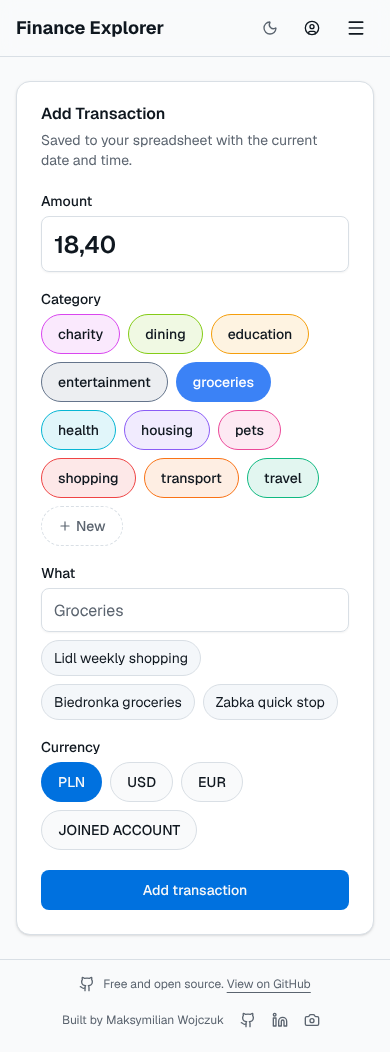
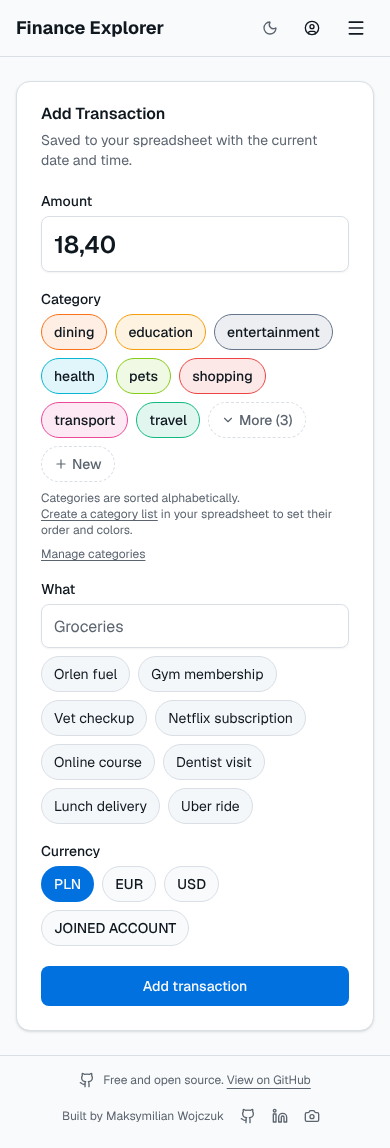
Update README screenshots and highlight offline adding
- New screenshots from the current app (demo data): dashboard,
  transactions, categories, category detail and the Add page.
- New "Add Transactions Anywhere, Even Offline" section with two phone
  screenshots: the saved-offline screen and unsynced rows in the list.
  It covers the fast Add page launch, saving without waiting for the
  network, background sync without duplicates, and the pending/failed
  status in the UI.
- docs/deployment.md: how unsynced transactions show in the UI.

Claude-Session: https://claude.ai/code/session_0157vtdCPyRZKogqmkTy4caS

diff --git a/README.md b/README.md
@@ -16,11 +16,27 @@ A powerful, privacy-focused personal finance dashboard that turns your Google Sh
 
 - **Your data stays in your Google Sheet**: There is no database. Transactions are read from and written to the Google Sheets API directly in your browser; the app's server never receives them.
 - **Minimal Google access**: Only the `drive.file` scope (plus your email for sign-in), so the app can open just the spreadsheet you pick, not the rest of your Drive. It writes only when you add, edit, return or delete a transaction, and only the input columns (Timestamp to Currency, TransactionID, Notes and ReturnOf) of the `expenses` tab, or when you manage currencies in the `currencyDates` tab.
-- **Local cache only**: Transactions are cached in your browser (IndexedDB) for fast loads and cleared on sign-out.
+- **Local cache only**: Transactions are cached in your browser (IndexedDB) for fast loads and cleared on sign-out. Transactions added offline wait in a separate on-device queue until they reach your sheet.
 - **No vendor lock-in**: Keep using Sheets however you like; the app is just a view on top. Self-host your own instance in one click.
 - **Server is auth-only**: The backend just exchanges and refreshes Google OAuth tokens (refresh token kept in an HTTP-only cookie).
 
 > Note: the app includes [Vercel Web Analytics](https://vercel.com/docs/analytics) for page-view stats. It does not receive your spreadsheet data.
+
+## Add Transactions Anywhere, Even Offline
+
+Install the app on your phone's Home Screen and adding an expense takes seconds, whatever the connection:
+
+- **Opens straight on the Add page**, loads without a network after one online visit, and shows your cached data at once while it refreshes in the background. Built for slow connections: the form needs a single Sheets request, and the Google sign-in script loads only when you sign in.
+- **Saving never waits for the network**: a new transaction is stored on the device and the saved screen shows immediately. It is sent to your sheet in the background, right away when online, or as soon as the connection is back (on reconnect or when you reopen the app).
+- **No duplicate rows**: each transaction gets its ID when saved, and a retry first checks the sheet for it.
+- **You always know what's pending**: unsynced transactions are listed and marked in the Transactions view, a bar shows what is waiting or failed (with **Retry**), and signing out warns you before leaving unsynced transactions behind.
+
+<p>
+  <img src="./docs/images/add-offline.png" alt="Saved offline, will sync when online" width="320" />
+  <img src="./docs/images/transactions-unsynced.png" alt="Unsynced transactions in the list" width="320" />
+</p>
+
+Returns, edits and deletes still need a connection, and saving offline needs [stored transaction IDs](./docs/migrations/stable-transaction-ids.md). See [Install as an App](./docs/deployment.md#6-install-as-an-app-offline) for setup and details.
 
 ## Try the Live Demo
 
@@ -39,7 +55,7 @@ Want to see the app in action? Visit the [live demo](https://v0-personal-finance
 - **Fixed Category Order and Colors**: An optional `categories` tab sets the order of the category buttons and each category's color across the app. The Add page can create it from your existing categories.
 - **Currencies**: Amounts are shown in the default currency from `currencyDates!B1`. The **Currencies** page (account menu) adds a currency converted with Google Finance rates, or a fixed multiplier such as 0.5 for a joint account; it also changes a multiplier or the default currency (with a warning about transactions converted silently) and removes unused currencies. See [Currencies](./docs/currencies.md).
 - **Manage Categories on the Add Page**: **Manage categories** adds categories or hides ones you no longer use from the Add page. Hidden categories stay in the `categories` tab (column C) with their color, still appear when editing, and their transactions do not change.
-- **Quick Add on iPhone**: Open `/add` in Safari and tap **Share → Add to Home Screen**. The installed app opens on the Add page, also offline after one online visit, and updates itself; sign in once inside it. See [Install as an App](./docs/deployment.md#6-install-as-an-app-offline).
+- **Quick Add on iPhone, also offline**: Open `/add` in Safari and tap **Share → Add to Home Screen**. The installed app opens on the Add page, also offline after one online visit, and updates itself; sign in once inside it. New transactions are saved on the device at once and synced in the background (see [above](#add-transactions-anywhere-even-offline)). See [Install as an App](./docs/deployment.md#6-install-as-an-app-offline).
 - **Multi-dimensional Filtering**: Filter by date range, month/year, and categories.
 - **Privacy First**: Authenticate with Google OAuth and keep your data in your own spreadsheet.
 

diff --git a/docs/deployment.md b/docs/deployment.md
@@ -165,6 +165,8 @@ The service worker (`app/sw.ts`, built with [Serwist](https://serwist.pages.dev)
 
 New transactions are saved on the device first and appended to the sheet in the background: at launch, when the network comes back and when the app is reopened. Each keeps the time it was saved and the TransactionID made then, which is checked before a retry so a lost response never adds a row twice. Returns, edits, deletes and sheets whose TransactionID is a formula still need the network. To save offline, the app must have opened the spreadsheet online once on that device.
 
+Until they're in the sheet, these transactions are listed in **Transactions**, marked with a cloud icon. A bar under the nav shows how many are waiting (**Sync now**) or failed (**Retry**, **View**); a failed one's details give the reason and let you retry it, copy its details or delete it. Signing out with unsynced transactions asks first; they stay on the device for that account and spreadsheet and sync after signing back in.
+
 ### Updates
 - Every deployment produces a new service worker. The app checks for one when it comes back to the foreground, and from **Account menu → Check for updates** (an installed iOS app has no pull-to-refresh).
 - The new version downloads in the background. With no unsaved input in a form it's applied at once (the page reloads); otherwise the nav shows **New version – Reload**.
